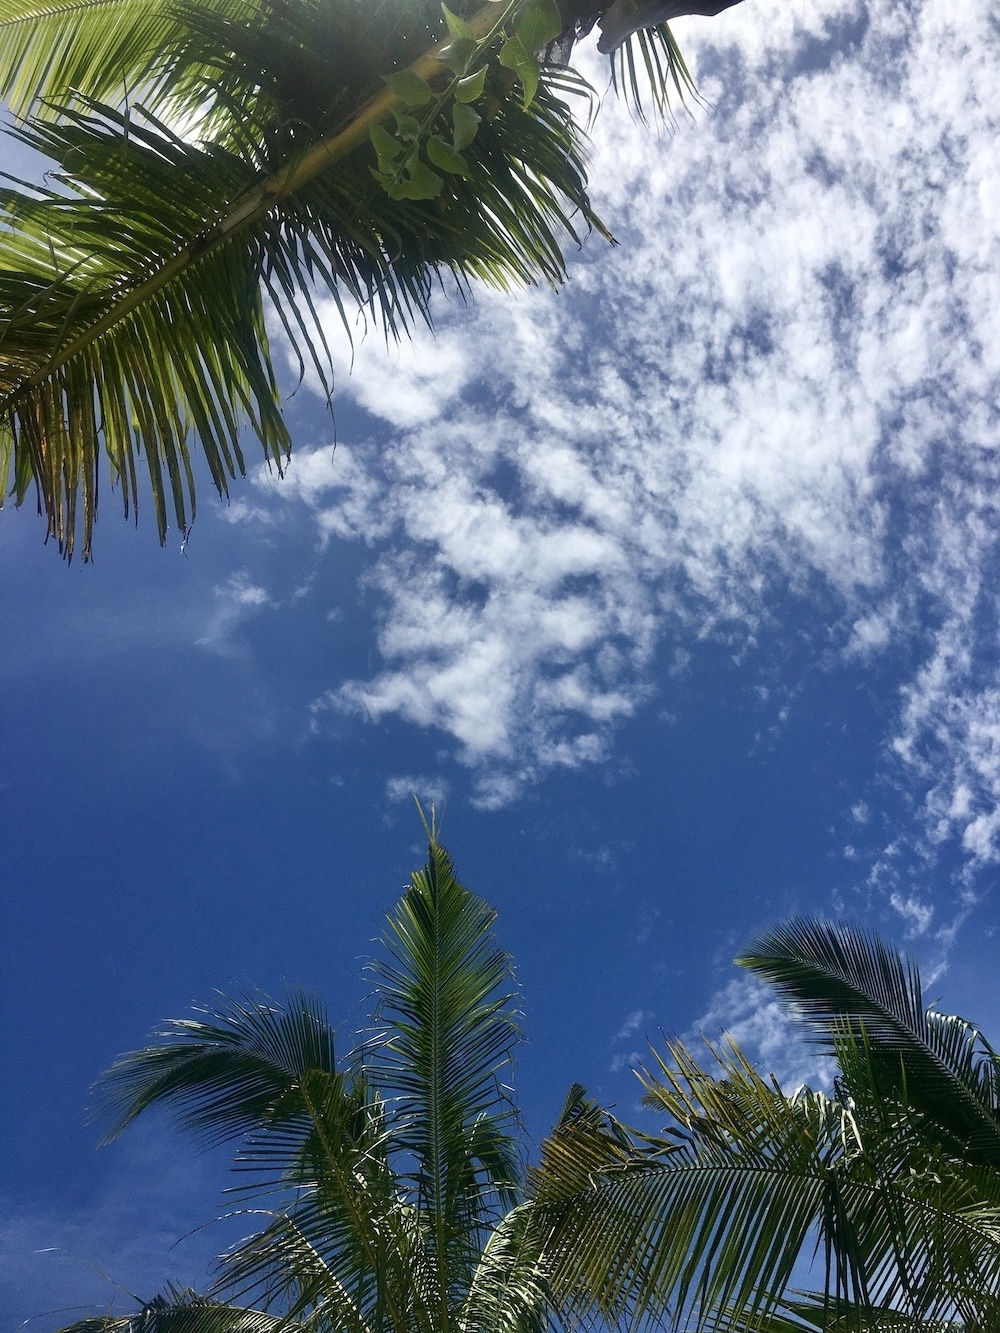
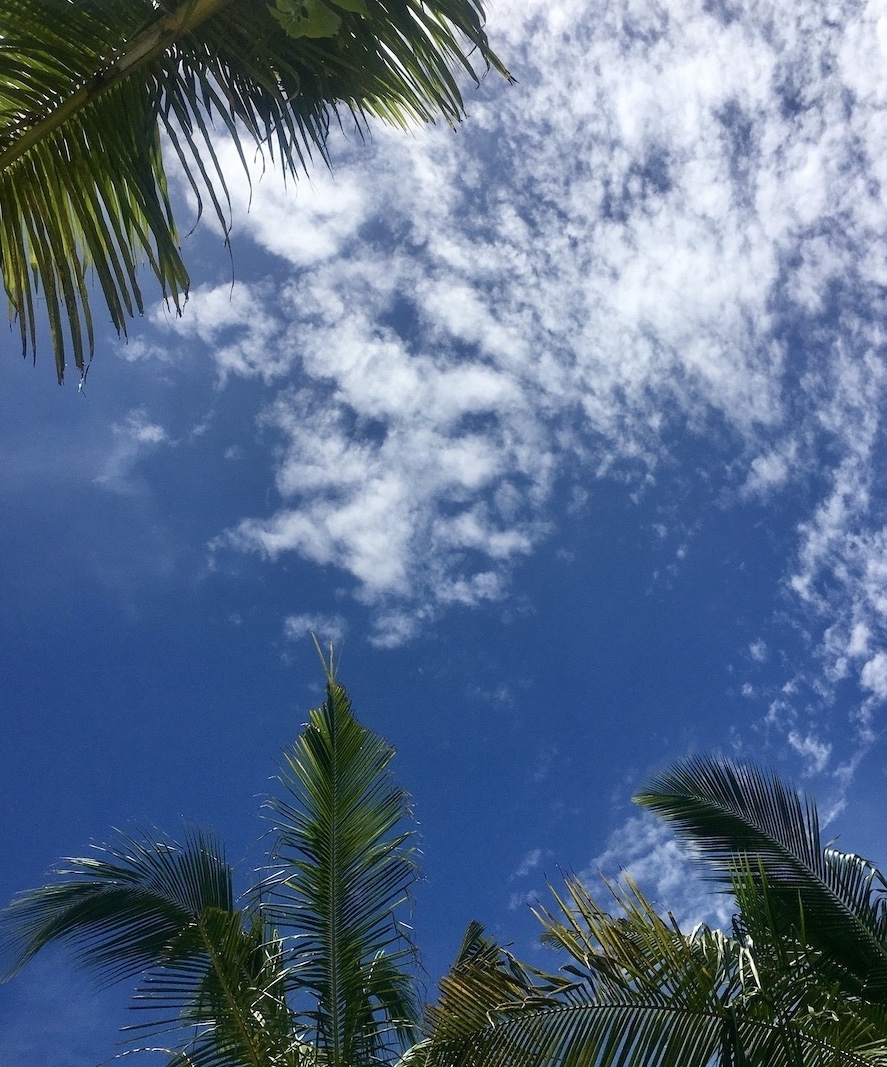
add cropped image for mobile hero | add minor css changes

diff --git a/bali-guiden/src/css/style.min.css b/bali-guiden/src/css/style.min.css
@@ -1,1 +1,1 @@
-/*! normalize.css v8.0.1 | MIT License | github.com/necolas/normalize.css */html{line-height:1.15;-webkit-text-size-adjust:100%}body{margin:0}main{display:block}h1{font-size:2em;margin:.67em 0}hr{-webkit-box-sizing:content-box;box-sizing:content-box;height:0;overflow:visible}pre{font-family:monospace,monospace;font-size:1em}a{background-color:rgba(0,0,0,0)}abbr[title]{border-bottom:none;text-decoration:underline;-webkit-text-decoration:underline dotted;text-decoration:underline dotted}b,strong{font-weight:bolder}code,kbd,samp{font-family:monospace,monospace;font-size:1em}small{font-size:80%}sub,sup{font-size:75%;line-height:0;position:relative;vertical-align:baseline}sub{bottom:-0.25em}sup{top:-0.5em}img{border-style:none}button,input,optgroup,select,textarea{font-family:inherit;font-size:100%;line-height:1.15;margin:0}button,input{overflow:visible}button,select{text-transform:none}button,[type=button],[type=reset],[type=submit]{-webkit-appearance:button}button::-moz-focus-inner,[type=button]::-moz-focus-inner,[type=reset]::-moz-focus-inner,[type=submit]::-moz-focus-inner{border-style:none;padding:0}button:-moz-focusring,[type=button]:-moz-focusring,[type=reset]:-moz-focusring,[type=submit]:-moz-focusring{outline:1px dotted ButtonText}fieldset{padding:.35em .75em .625em}legend{-webkit-box-sizing:border-box;box-sizing:border-box;color:inherit;display:table;max-width:100%;padding:0;white-space:normal}progress{vertical-align:baseline}textarea{overflow:auto}[type=checkbox],[type=radio]{-webkit-box-sizing:border-box;box-sizing:border-box;padding:0}[type=number]::-webkit-inner-spin-button,[type=number]::-webkit-outer-spin-button{height:auto}[type=search]{-webkit-appearance:textfield;outline-offset:-2px}[type=search]::-webkit-search-decoration{-webkit-appearance:none}::-webkit-file-upload-button{-webkit-appearance:button;font:inherit}details{display:block}summary{display:list-item}template{display:none}[hidden]{display:none}html{-webkit-box-sizing:border-box;box-sizing:border-box}ul{margin:0;padding:0;display:-webkit-box;display:-ms-flexbox;display:flex;-webkit-box-align:center;-ms-flex-align:center;align-items:center;-ms-flex-pack:distribute;justify-content:space-around}li{list-style:none}a{text-decoration:none;color:#000;font-size:1.5rem}a,button{cursor:pointer}.menu-hidden{-webkit-transform:translateY(-150%);transform:translateY(-150%);overflow-y:hidden}.visually-hidden{border:0;clip:rect(0 0 0 0);height:1px;margin:-1px;overflow:hidden;padding:0;position:absolute;width:1px}html,h1,h2,h3,p{font-family:"Montserrat",sans-serif}header{padding:.3em 0;position:relative}header #cities ul li:not(.bali-image){display:none}@media screen and (min-width: 768px){header #cities ul li:not(.bali-image){display:block}}header #cities ul li img{height:3.125rem}@media screen and (min-width: 768px){header #cities ul li img{height:3.8125rem}}header button{height:100%;padding:1em;display:-webkit-box;display:-ms-flexbox;display:flex;-webkit-box-orient:vertical;-webkit-box-direction:normal;-ms-flex-direction:column;flex-direction:column;-webkit-box-pack:justify;-ms-flex-pack:justify;justify-content:space-between;-webkit-box-align:end;-ms-flex-align:end;align-items:flex-end;background-color:rgba(0,0,0,0);border:none;position:absolute;top:0;right:0}header button div{background-color:#f90;border-radius:1em;height:0.195rem}header button :nth-child(1){width:1.394375rem}header button :nth-child(2){width:1.209375rem}header button :nth-child(3){width:1.555rem}header nav{display:none}main #hero{display:-webkit-box;display:-ms-flexbox;display:flex;-webkit-box-pack:center;-ms-flex-pack:center;justify-content:center;-webkit-box-align:center;-ms-flex-align:center;align-items:center;background-image:url("../../assets/images/bali-guiden-palmer-rotate.jpg");background-repeat:no-repeat;background-size:cover;height:27.75rem;background-color:#fff;opacity:.8}main #hero h1{color:#fff;font-size:3rem;font-weight:600;text-shadow:4px 4px 4px #4972a7}main #info{padding:1.5em 3.6em;font-size:0.75rem}main #info p{line-height:1.25rem;text-align:center}main #info #separator{border-radius:1em;height:0.3125rem;width:15.0625rem;margin-top:3em;margin-left:auto;margin-right:auto;background-color:#f90}main #newsletter{background-color:#ffb74b;text-align:center}main #newsletter p{font-size:0.75rem;padding-top:3.5em;padding-bottom:0;padding-left:3.5em;padding-right:3.5em;color:#fff;font-weight:600}main #newsletter form{display:-webkit-box;display:-ms-flexbox;display:flex;-webkit-box-orient:vertical;-webkit-box-direction:normal;-ms-flex-direction:column;flex-direction:column;border-style:none;outline:none}main #newsletter form input{background-color:#fff;border-radius:0.3125rem;border-color:#f90;border-style:solid;height:1.549375rem;width:65%;margin-top:1em;margin-bottom:1em;margin-left:auto;margin-right:auto;padding-left:.5em}main #newsletter form input::-webkit-input-placeholder{color:#f90;text-align:left;font-size:0.75rem}main #newsletter form input::-moz-placeholder{color:#f90;text-align:left;font-size:0.75rem}main #newsletter form input:-ms-input-placeholder{color:#f90;text-align:left;font-size:0.75rem}main #newsletter form input::-ms-input-placeholder{color:#f90;text-align:left;font-size:0.75rem}main #newsletter form input::placeholder{color:#f90;text-align:left;font-size:0.75rem}main #newsletter form button{background-color:#fff;color:#f90;-webkit-box-shadow:4px 4px 4px #f90;box-shadow:4px 4px 4px #f90;border-radius:0.3125rem;border-color:#f90;border-style:solid;width:30%;margin-bottom:3em;margin-left:auto;margin-right:auto;font-size:0.75rem;padding:.5em 0}main #cookie-banner{display:none}main #cards{display:none}footer{display:-webkit-box;display:-ms-flexbox;display:flex;-webkit-box-pack:center;-ms-flex-pack:center;justify-content:center;-webkit-box-align:center;-ms-flex-align:center;align-items:center;color:#f90;font-size:0.75rem;font-weight:600}
+/*! normalize.css v8.0.1 | MIT License | github.com/necolas/normalize.css */html{line-height:1.15;-webkit-text-size-adjust:100%}body{margin:0}main{display:block}h1{font-size:2em;margin:.67em 0}hr{-webkit-box-sizing:content-box;box-sizing:content-box;height:0;overflow:visible}pre{font-family:monospace,monospace;font-size:1em}a{background-color:rgba(0,0,0,0)}abbr[title]{border-bottom:none;text-decoration:underline;-webkit-text-decoration:underline dotted;text-decoration:underline dotted}b,strong{font-weight:bolder}code,kbd,samp{font-family:monospace,monospace;font-size:1em}small{font-size:80%}sub,sup{font-size:75%;line-height:0;position:relative;vertical-align:baseline}sub{bottom:-0.25em}sup{top:-0.5em}img{border-style:none}button,input,optgroup,select,textarea{font-family:inherit;font-size:100%;line-height:1.15;margin:0}button,input{overflow:visible}button,select{text-transform:none}button,[type=button],[type=reset],[type=submit]{-webkit-appearance:button}button::-moz-focus-inner,[type=button]::-moz-focus-inner,[type=reset]::-moz-focus-inner,[type=submit]::-moz-focus-inner{border-style:none;padding:0}button:-moz-focusring,[type=button]:-moz-focusring,[type=reset]:-moz-focusring,[type=submit]:-moz-focusring{outline:1px dotted ButtonText}fieldset{padding:.35em .75em .625em}legend{-webkit-box-sizing:border-box;box-sizing:border-box;color:inherit;display:table;max-width:100%;padding:0;white-space:normal}progress{vertical-align:baseline}textarea{overflow:auto}[type=checkbox],[type=radio]{-webkit-box-sizing:border-box;box-sizing:border-box;padding:0}[type=number]::-webkit-inner-spin-button,[type=number]::-webkit-outer-spin-button{height:auto}[type=search]{-webkit-appearance:textfield;outline-offset:-2px}[type=search]::-webkit-search-decoration{-webkit-appearance:none}::-webkit-file-upload-button{-webkit-appearance:button;font:inherit}details{display:block}summary{display:list-item}template{display:none}[hidden]{display:none}html{-webkit-box-sizing:border-box;box-sizing:border-box}ul{margin:0;padding:0;display:-webkit-box;display:-ms-flexbox;display:flex;-webkit-box-align:center;-ms-flex-align:center;align-items:center;-ms-flex-pack:distribute;justify-content:space-around}li{list-style:none}a{text-decoration:none;color:#000;font-size:1.5rem}a,button{cursor:pointer}.menu-hidden{-webkit-transform:translateY(-150%);transform:translateY(-150%);overflow-y:hidden}.visually-hidden{border:0;clip:rect(0 0 0 0);height:1px;margin:-1px;overflow:hidden;padding:0;position:absolute;width:1px}html,h1,h2,h3,p{font-family:"Montserrat",sans-serif}header{padding:.3em 0;position:relative}header #cities ul li:not(.bali-image){display:none}@media screen and (min-width: 768px){header #cities ul li:not(.bali-image){display:block}}header #cities ul li img{height:3.125rem}@media screen and (min-width: 768px){header #cities ul li img{height:3.8125rem}}header button{height:100%;padding:1.1em;display:-webkit-box;display:-ms-flexbox;display:flex;-webkit-box-orient:vertical;-webkit-box-direction:normal;-ms-flex-direction:column;flex-direction:column;-webkit-box-pack:justify;-ms-flex-pack:justify;justify-content:space-between;-webkit-box-align:end;-ms-flex-align:end;align-items:flex-end;background-color:rgba(0,0,0,0);border:none;position:absolute;top:0;right:0}header button div{background-color:#f90;border-radius:1em;height:0.195rem}header button :nth-child(1){width:1.394375rem}header button :nth-child(2){width:1.209375rem}header button :nth-child(3){width:1.555rem}header nav{display:none}main #hero{display:-webkit-box;display:-ms-flexbox;display:flex;-webkit-box-pack:center;-ms-flex-pack:center;justify-content:center;background-image:url("../../assets/images/bali-guiden-palmer-rotate.jpg");background-repeat:no-repeat;background-size:cover;height:27.75rem;background-color:#fff;opacity:.8}main #hero h1{color:#fff;font-size:3rem;font-weight:600;text-shadow:4px 4px 4px #4972a7;margin-top:3em}main #info{padding:1.5em 3.6em;font-size:0.75rem}main #info p{line-height:1.25rem;text-align:center}main #info #separator{border-radius:1em;height:0.3125rem;width:15.0625rem;margin-top:3em;margin-bottom:1em;margin-left:auto;margin-right:auto;background-color:#f90}main #newsletter{background-color:#ffb74b;text-align:center}main #newsletter p{font-size:0.75rem;padding:3em 3.5em 0 3.5em;color:#fff;font-weight:600}main #newsletter form{display:-webkit-box;display:-ms-flexbox;display:flex;-webkit-box-orient:vertical;-webkit-box-direction:normal;-ms-flex-direction:column;flex-direction:column;border-style:none;outline:none}main #newsletter form input{background-color:#fff;border-radius:0.3125rem;border-color:#f90;border-style:solid;height:1.549375rem;width:65%;margin-top:1em;margin-bottom:1em;margin-left:auto;margin-right:auto;padding-left:.5em}main #newsletter form input::-webkit-input-placeholder{color:#f90;text-align:left;font-size:0.75rem}main #newsletter form input::-moz-placeholder{color:#f90;text-align:left;font-size:0.75rem}main #newsletter form input:-ms-input-placeholder{color:#f90;text-align:left;font-size:0.75rem}main #newsletter form input::-ms-input-placeholder{color:#f90;text-align:left;font-size:0.75rem}main #newsletter form input::placeholder{color:#f90;text-align:left;font-size:0.75rem}main #newsletter form button{background-color:#fff;color:#f90;-webkit-box-shadow:4px 4px 4px rgba(0,0,0,.25);box-shadow:4px 4px 4px rgba(0,0,0,.25);border-radius:0.3125rem;border-color:#f90;border-style:solid;width:30%;margin-bottom:3em;margin-left:auto;margin-right:auto;font-size:0.75rem;padding:.5em 0}main #cookie-banner{display:none}main #cards{display:none}footer{display:-webkit-box;display:-ms-flexbox;display:flex;-webkit-box-pack:center;-ms-flex-pack:center;justify-content:center;-webkit-box-align:center;-ms-flex-align:center;align-items:center;color:#f90;font-size:0.75rem;font-weight:600}

diff --git a/bali-guiden/src/scss/layout/_main.scss b/bali-guiden/src/scss/layout/_main.scss
@@ -4,7 +4,6 @@ main {
   #hero {
     display: flex;
     justify-content: center;
-    align-items: center;
     background-image: url('../../assets/images/bali-guiden-palmer-rotate.jpg');
     background-repeat: no-repeat;
     background-size: cover;
@@ -16,6 +15,7 @@ main {
       font-size: toRem(48);
       font-weight: $font-weight-semi-bold;
       text-shadow: 4px 4px 4px $color-berry;
+      margin-top: 3em;
     }
   }
   #info {
@@ -30,6 +30,7 @@ main {
       height: toRem(5);
       width: toRem(241);
       margin-top: 3em;
+      margin-bottom: 1em;
       margin-left: auto;
       margin-right: auto;
       background-color: $color-orange;
@@ -41,11 +42,7 @@ main {
 
     p {
       font-size: toRem(12);
-      padding-top: 3.5em;
-      padding-bottom: 0;
-      padding-left: 3.5em;
-      padding-right: 3.5em;
-
+      padding: 3em 3.5em 0 3.5em;
       color: $color-white;
       font-weight: $font-weight-semi-bold;
     }
@@ -77,7 +74,7 @@ main {
       button {
         background-color: $color-white;
         color: $color-orange;
-        box-shadow: 4px 4px 4px $color-orange;
+        box-shadow: 4px 4px 4px rgba(0, 0, 0, 0.25);
         border-radius: toRem(5);
         border-color: $color-orange;
         border-style: solid;

diff --git a/bali-guiden/src/scss/layout/_header.scss b/bali-guiden/src/scss/layout/_header.scss
@@ -21,7 +21,7 @@ header {
   }
   button {
     height: 100%;
-    padding: 1em;
+    padding: 1.1em;
     display: flex;
     flex-direction: column;
     justify-content: space-between;
